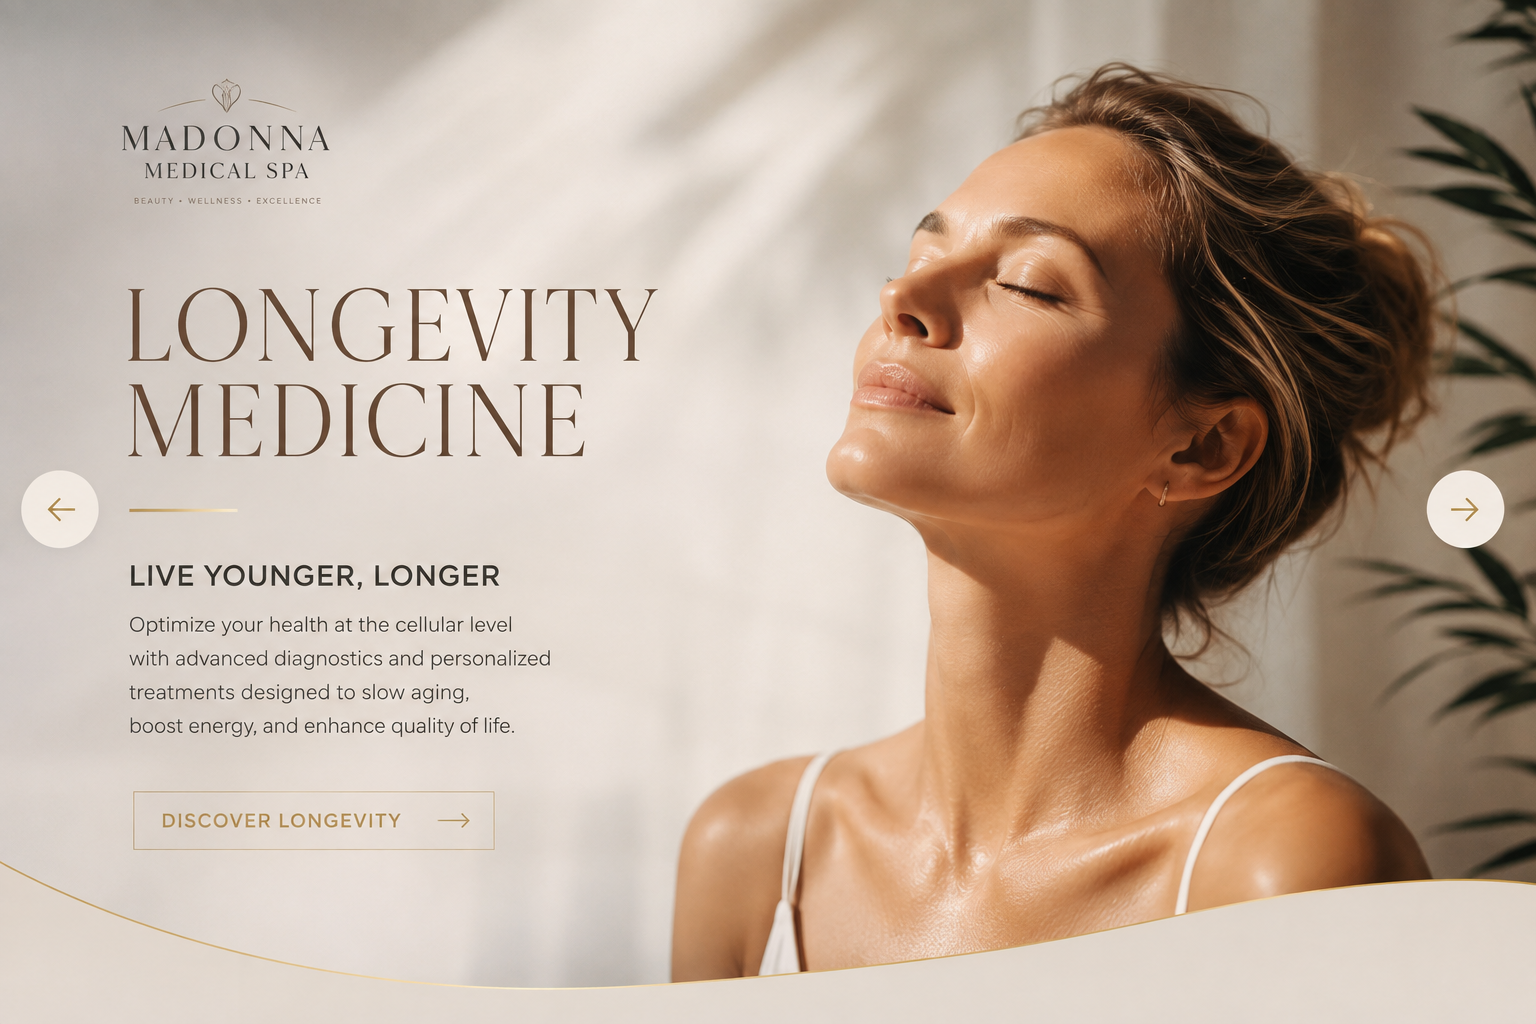
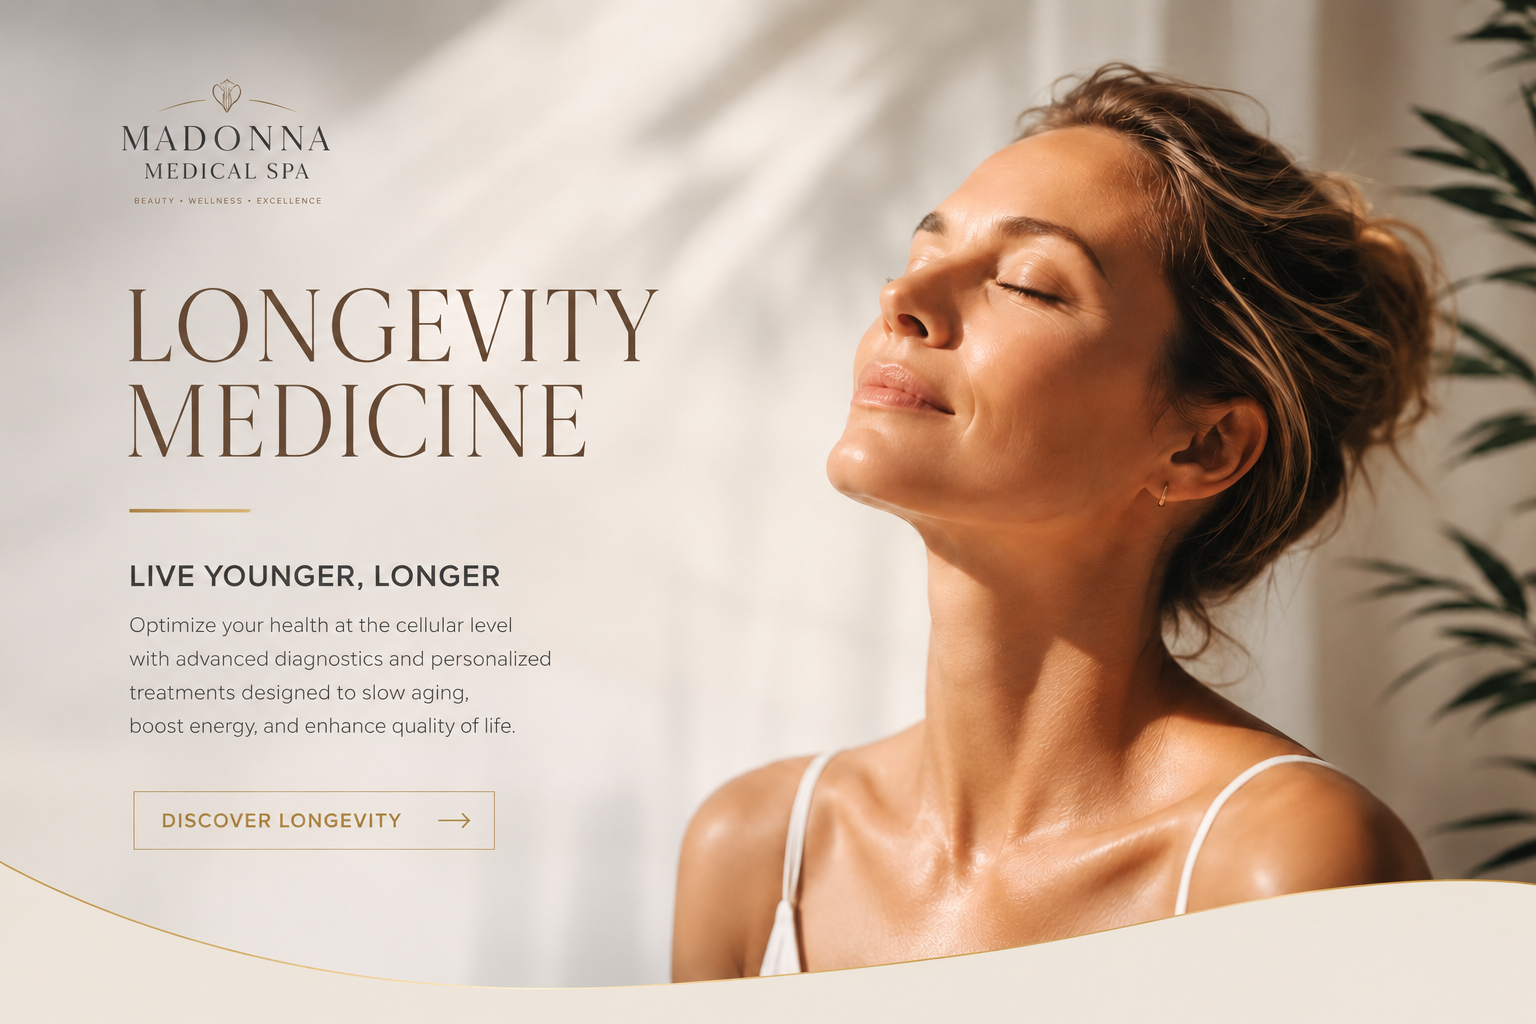
main

diff --git a/pages/medical-spa-services/services/longevity-med/longevity-med.html b/pages/medical-spa-services/services/longevity-med/longevity-med.html
@@ -4,58 +4,63 @@
         <div data-nav-target="longevity-func-medicine-btn" class="section-title">
             <span class="title-text"> Longevity / Functional  Medicine </span>
         </div>
-        <div class="content  show">
-            <div tabindex="0" class="section-preview">
-                <h4>Longevity Medicine</h4>
+        <div class="content show">
+            <div  class="section-preview">
+                <!-- <div tabindex="0" data-nav-target="long-med-spa-serv-img" class="img-wrapper float-right">
+                    <img class="service-img" src="pages/medical-spa-services/media/longevity-func-slide.png" alt="">
+                </div> -->
                 <div class="img-wrapper float-right">
                     <video data-video-id="longevity-video" preload="metadata" 
                     class="service-video vid-fix" loop controls playsinline
-                        poster="pages/medical-spa-services/media/longevity-med/"
+                        poster="pages/medical-spa-services/media/longevity-med/imgs/longevity-func-slide.png"
                         src="pages/medical-spa-services/services/longevity-med/videos/long-med-trim.mp4">
                     </video>
                 </div>
-                
-                <p data-nav-target="long-med-span" data-video-target="longevity-video" tabindex="0">
+                <p  data-nav-target="long-med-span" data-video-target="longevity-video" tabindex="0">
                         <span id="LongevityMedicineBold">Longevity Medicine</span> is a proactive approach to wellness and healthy aging.
                         We strive to optimize and improve how patients feel, function, and age over time.
                 </p>
-                <p  data-nav-target="and-overall-health" tabindex="0">
-                    and overall health to create individualized treatment plans designed to restore balance, 
-                    optimize wellness, and support long-term health.
-                </p>
-                
-                <!-- <div class="more-info-buttons">
-                    <button data-nav-target="moreInfo-longevityMed" class="more-info-btn ">
-                        more-info</button>
-                        <button>bookings</button>
-                </div> -->
-            </div>
-            <div  class="section-details show">    
-                <div class="img-wrapper float-left">
-                    <video data-video-id="functional-medicine-video" preload="metadata" class="service-video" loop controls playsinline
-                        poster="pages/medical-spa-services/media/longevity-med/"
-                        src="pages/medical-spa-services/services/longevity-med/videos/long-med-trim.mp4">
-                    </video>
+                <div  class="img-wrapper float-left">
+                    <img class="service-img" src="pages/medical-spa-services/services/longevity-med/imgs/funct-med.png" alt="">
                 </div>
-                
-                <h4>Functional Medicine</h4>
                 <p data-nav-target="functional-med-span" data-video-target="functional-medicine-video" tabindex="0">
                     &emsp; <span id="FunctionalMedicineBold">Functional&nbsp;Medicine</span> is a personalized, science-based approach to healthcare that focuses on identifying 
                     and addressing the root causes of illness rather than simply treating symptoms.
                 </p>
+                <div class="more-info-buttons">
+                    <button data-nav-target="moreInfo-longevityMed" class="more-info-btn ">
+                        more-info</button>
+                        <!-- <button>bookings</button> -->
+                </div>
+                
+            </div>
+            <div tabindex="0" class="section-details show">    
+                <p data-nav-target="we-incorporate">
+                    We incorporate genetics,
+                    lifestyle, nutrition, and overall health to
+
+                </p>
                 <ul>
-                    <li><img src="pages/medical-spa-services/services/longevity-med/media/dna-tron.png" alt=""></li>
-                    <li><img src="pages/medical-spa-services/services/longevity-med/media/exercise-tron.png" alt=""></li>
-                    <li><img src="pages/medical-spa-services/services/longevity-med/media/nutrition-tron.png" alt=""></li>
+                    <!-- <li><img src="pages/medical-spa-services/services/longevity-med/media/dna-tron.png" alt=""></li> -->
+                        <li><img id="dnaImg" src="pages/medical-spa-services/services/longevity-med/imgs/dna-tron-noBG.png" alt="dna-img"></li>
+                    <li><img src="pages/medical-spa-services/services/longevity-med/imgs/exercise-tron-trans.png" alt=""></li>
+                    <li><img src="pages/medical-spa-services/services/longevity-med/imgs/nutrition-tron.png" alt=""></li>
                 </ul>
+                <p data-nav-target="create-individualized">
+                        create individualized treatment plans designed to restore balance, 
+                    optimize wellness, and support long-term health.
+                </p>
+                
                 <p>
-                    ...... put this at end    Dr. Tomani and the entire staff work by combining advanced medical therapies 
+                    Dr. Tomani and the entire staff work by combining advanced medical therapies 
                     with personalized treatment plans. We help patients maintain their health and
                     vitality to age with confidence.
                 </p>
-                <!-- <a tabindex="0" data-link href="pages/medical-spa-services/services/longevity-med/longevity-med.html"
+                
+                <a tabindex="0" data-link href="pages/medical-spa-services/services/longevity-med/longevity-med.html"
                     data-nav-target="moreInfo-longevityMed" class="more-info-link
-                                    "> more info</a> -->
+                                    "> more info
+                </a>
             </div>
         </div>
     </section>

diff --git a/pages/medical-spa-services/medical-spa-services.html b/pages/medical-spa-services/medical-spa-services.html
@@ -164,7 +164,7 @@
             aria-expanded="false" aria-controls="menu-id">
                 <span class="title-text"> Botox &amp; Filler </span>
             </button>
-            <div class="content ">
+            <div class="content show ">
                 <div tabindex="0" class="section-preview">
                     <div tabindex="0" data-nav-target="long-med-spa-serv-img" class="img-wrapper float-right ">
                         <img class="service-img img-fix" src="pages/medical-spa-services/services/botox/media/botox-card.png" alt="">
@@ -184,16 +184,14 @@
                     </div>
                 </div>
                 <div tabindex="0" class="section-details  ">    
-                    
-                    <div tabindex="0" id="botoxImg" data-nav-target="botox-img" class="img-wrapper float-left">
-                        <img  src="pages/medical-spa-services/services/botox/media/botox-img.png" alt="">
-                        
+                    <div tabindex="0" id="botoxImg" data-nav-target="botox-img"
+                     class="img-wrapper float-left img-fix">
+                        <img src="pages/medical-spa-services/services/botox/media/botox-img.png" alt="">
                     </div>
                     <p>
                         We take meticulous care in not covering your natural looks, by carefully touching up
                         your favorite qualities. 
                     </p>
-                    
                 </div>
             </div>
         </section>

diff --git a/pages/medical-spa-services/css/responsive-med-spa-serv.css b/pages/medical-spa-services/css/responsive-med-spa-serv.css
@@ -32,6 +32,7 @@
     }
 }
 @media (min-width: 967px) {
+    
     #bioHormoneReplacement>.content>.section-preview p:nth-of-type(2) {
         padding: 2.5%;
         line-height: 2.2;
@@ -50,7 +51,9 @@
 
 }
 @media (min-width: 731px) {
-    
+    .page-container.med-spa-serv-container {
+        width: 90vw;
+    }
     .sections-containers section .content{
         padding: 5%;
     }
@@ -121,5 +124,5 @@
         padding: 0 1%;
         padding-top: 3%;
     }
-        
+            
 }

diff --git a/pages/medical-spa-services/css/new-med-spa-serv.css b/pages/medical-spa-services/css/new-med-spa-serv.css
@@ -1,9 +1,11 @@
 /* new-med-spa-serv.css */
+.med-spa-serv-container .section-preview .img-wrapper:has(.img-fix),
 .med-spa-serv-container .section-preview .img-wrapper:has(.vid-fix) {
     aspect-ratio: auto;
     height: auto;
 }
 
+.med-spa-serv-container .section-preview .img-wrapper .img-fix,
 .med-spa-serv-container .section-preview .img-wrapper .vid-fix {
     position: relative;
     width: 100%;
